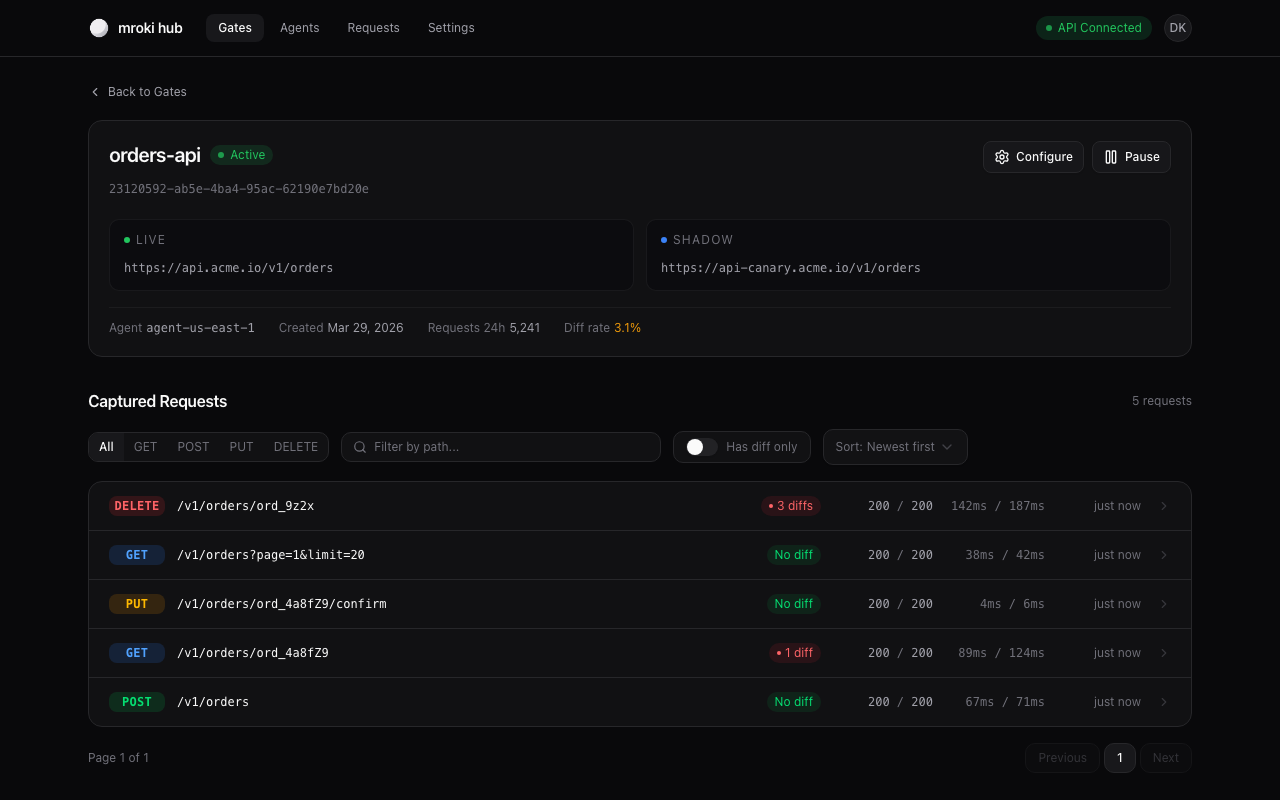
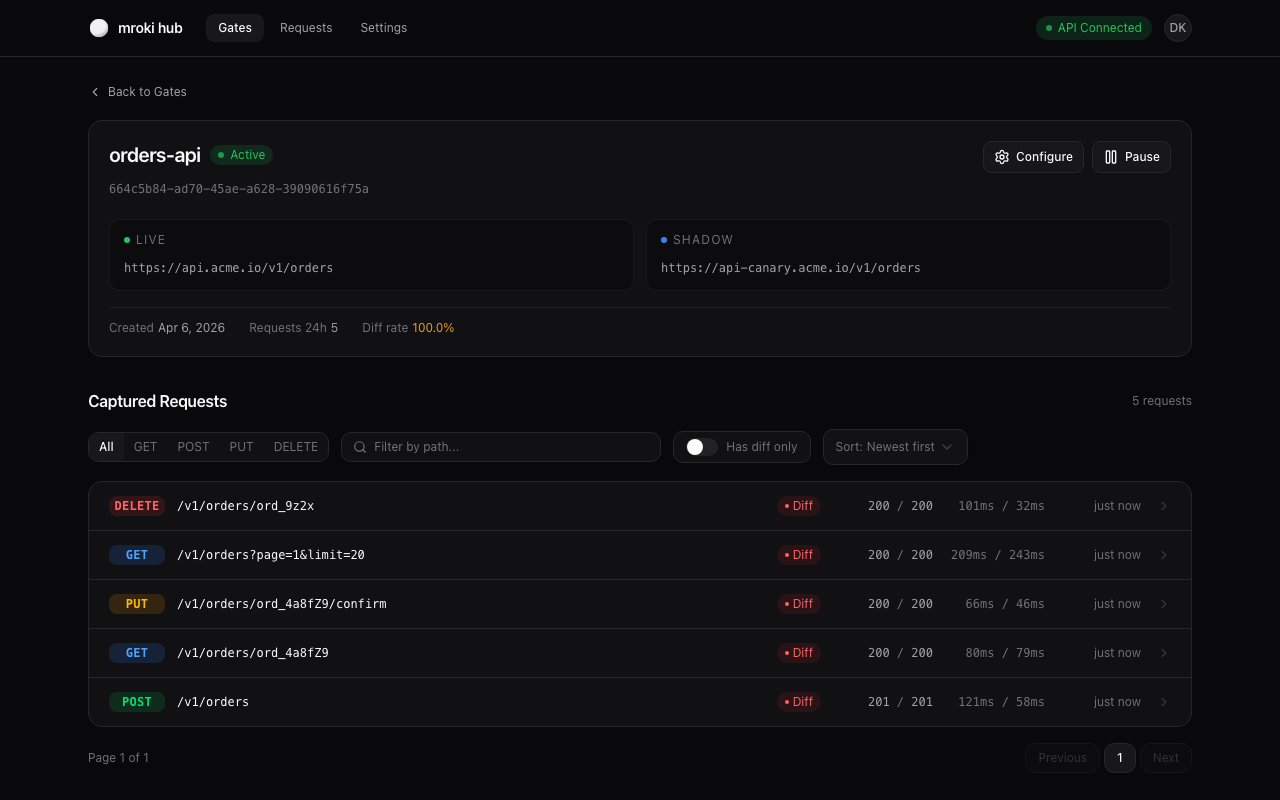
chore: regenerate screenshots with live/shadow response data
- Fix e2e fixtures to use live_response/shadow_response payload
  format with latency_ms
- Regenerate all 4 hub screenshots with real response metadata
  (status codes, latency, diff indicators)

diff --git a/web/mroki-hub/e2e/fixtures.ts b/web/mroki-hub/e2e/fixtures.ts
@@ -18,19 +18,22 @@ interface RequestSummary {
   created_at: string
 }
 
+interface ResponsePayload {
+  status_code: number
+  headers: Record<string, string[]>
+  body: string
+  latency_ms: number
+  created_at: string
+}
+
 interface CreateRequestPayload {
   method: string
   path: string
   headers: Record<string, string[]>
   body: string
   created_at: string
-  responses: {
-    type: 'live' | 'shadow'
-    status_code: number
-    headers: Record<string, string[]>
-    body: string
-    created_at: string
-  }[]
+  live_response: ResponsePayload
+  shadow_response: ResponsePayload
   diff: { content: { op: string; path: string; value?: unknown }[] }
 }
 
@@ -104,22 +107,20 @@ export const test = base.extend<{ api: ApiHelper }>({
           headers: { 'Content-Type': ['application/json'] },
           body: '',
           created_at: createdAt,
-          responses: [
-            {
-              type: 'live',
-              status_code: liveStatus,
-              headers: { 'Content-Type': ['application/json'] },
-              body: liveBody,
-              created_at: createdAt,
-            },
-            {
-              type: 'shadow',
-              status_code: shadowStatus,
-              headers: { 'Content-Type': ['application/json'] },
-              body: shadowBody,
-              created_at: createdAt,
-            },
-          ],
+          live_response: {
+            status_code: liveStatus,
+            headers: { 'Content-Type': ['application/json'] },
+            body: liveBody,
+            latency_ms: Math.floor(Math.random() * 200) + 20,
+            created_at: createdAt,
+          },
+          shadow_response: {
+            status_code: shadowStatus,
+            headers: { 'Content-Type': ['application/json'] },
+            body: shadowBody,
+            latency_ms: Math.floor(Math.random() * 300) + 30,
+            created_at: createdAt,
+          },
           diff: { content: diffContent },
         })
       },
